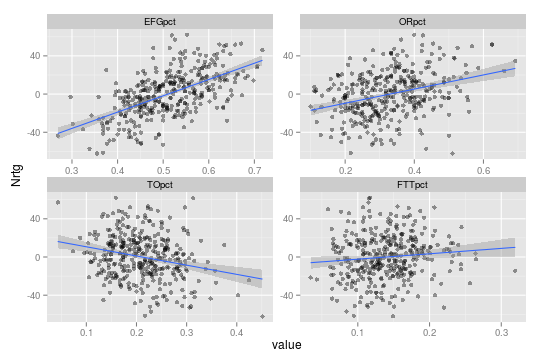
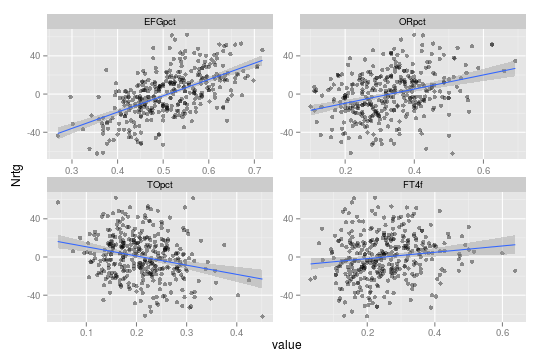
Updated report files

diff --git a/site/pages/reports/2009-2010/teamindicators_regular_season.rst b/site/pages/reports/2009-2010/teamindicators_regular_season.rst
@@ -103,12 +103,12 @@ The correlation matrix for the four factors and the net rating is displayed belo
 
 ::
 
-    ##           Nrtg   EFGpct    ORpct    TOpct  FTTpct
-    ## Nrtg    1.0000  0.58821  0.33049 -0.24311 0.10389
-    ## EFGpct  0.5882  1.00000 -0.02275 -0.10390 0.02256
-    ## ORpct   0.3305 -0.02275  1.00000  0.24740 0.01878
-    ## TOpct  -0.2431 -0.10390  0.24740  1.00000 0.01789
-    ## FTTpct  0.1039  0.02256  0.01878  0.01789 1.00000
+    ##           Nrtg    EFGpct    ORpct    TOpct     FT4f
+    ## Nrtg    1.0000  0.588212  0.33049 -0.24311 0.136350
+    ## EFGpct  0.5882  1.000000 -0.02275 -0.10390 0.002021
+    ## ORpct   0.3305 -0.022752  1.00000  0.24740 0.054431
+    ## TOpct  -0.2431 -0.103898  0.24740  1.00000 0.015575
+    ## FT4f    0.1364  0.002021  0.05443  0.01557 1.000000
 
 
 
